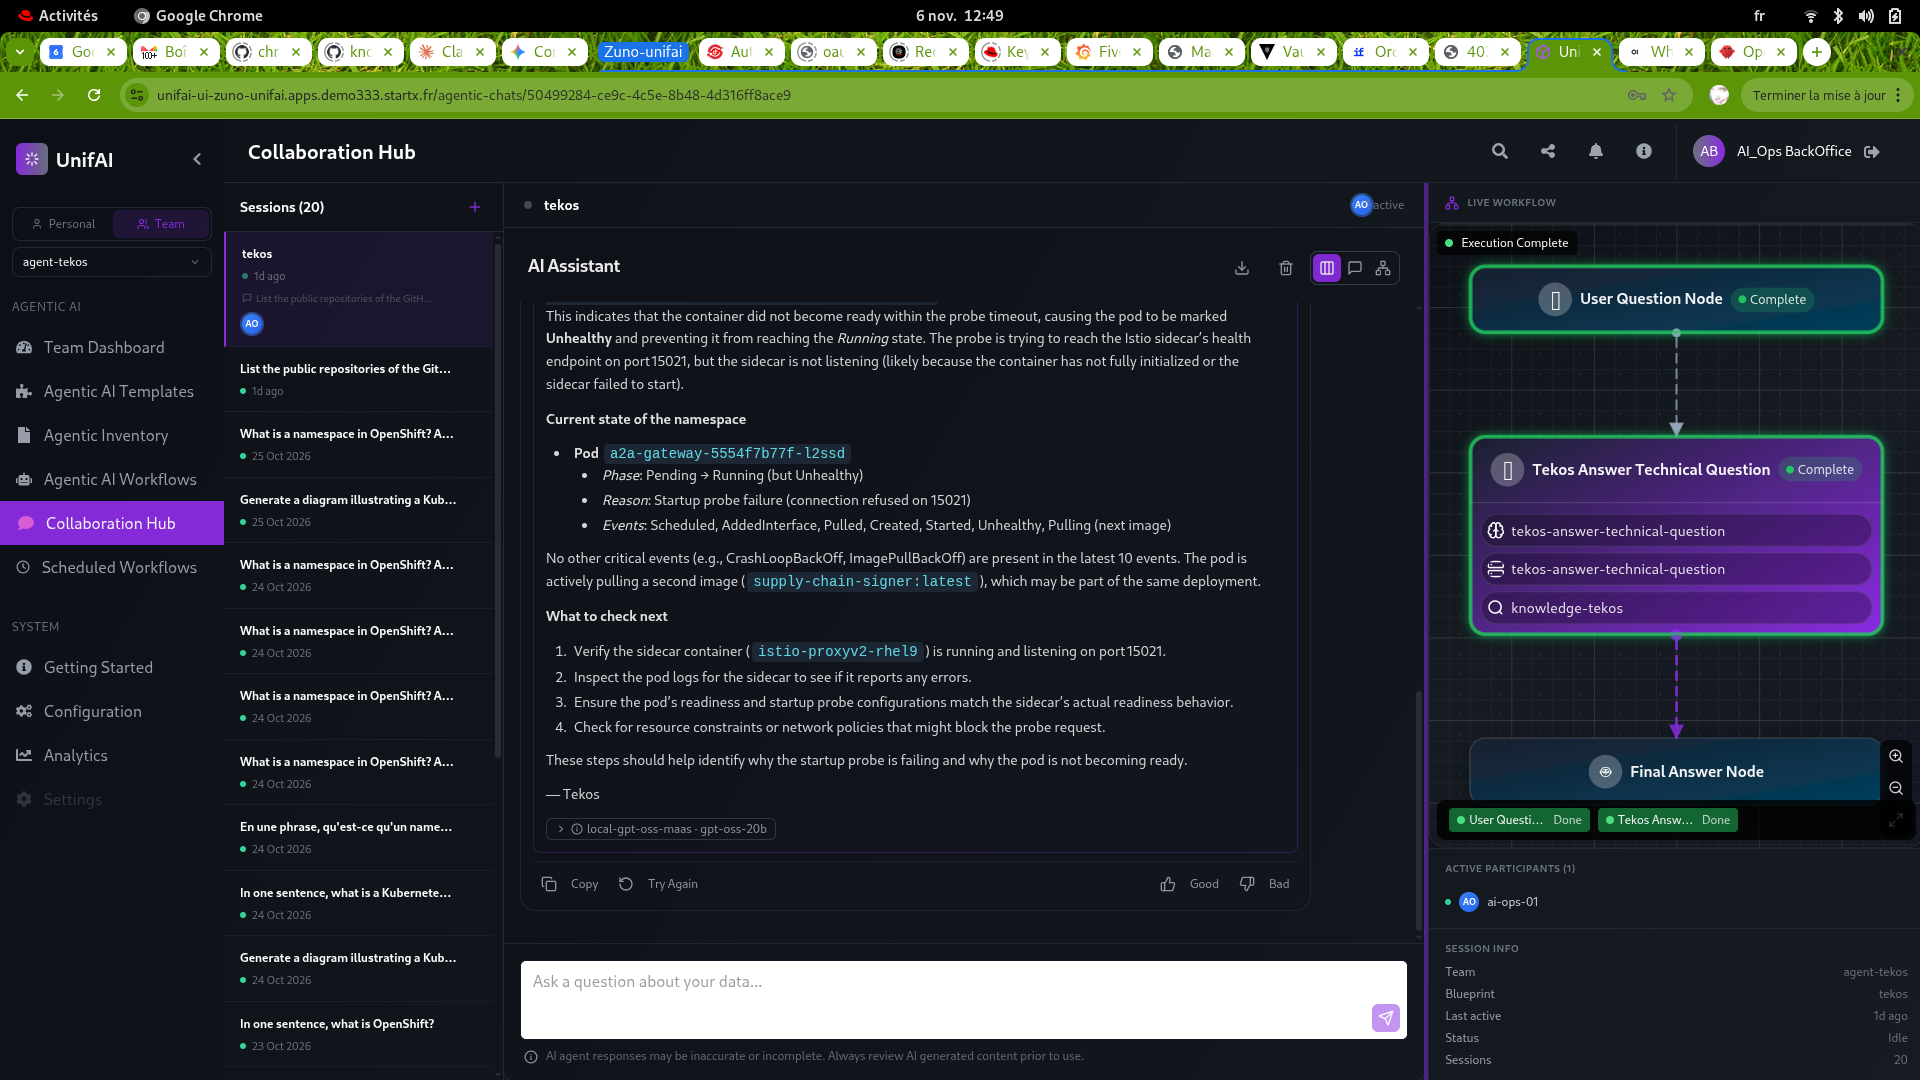
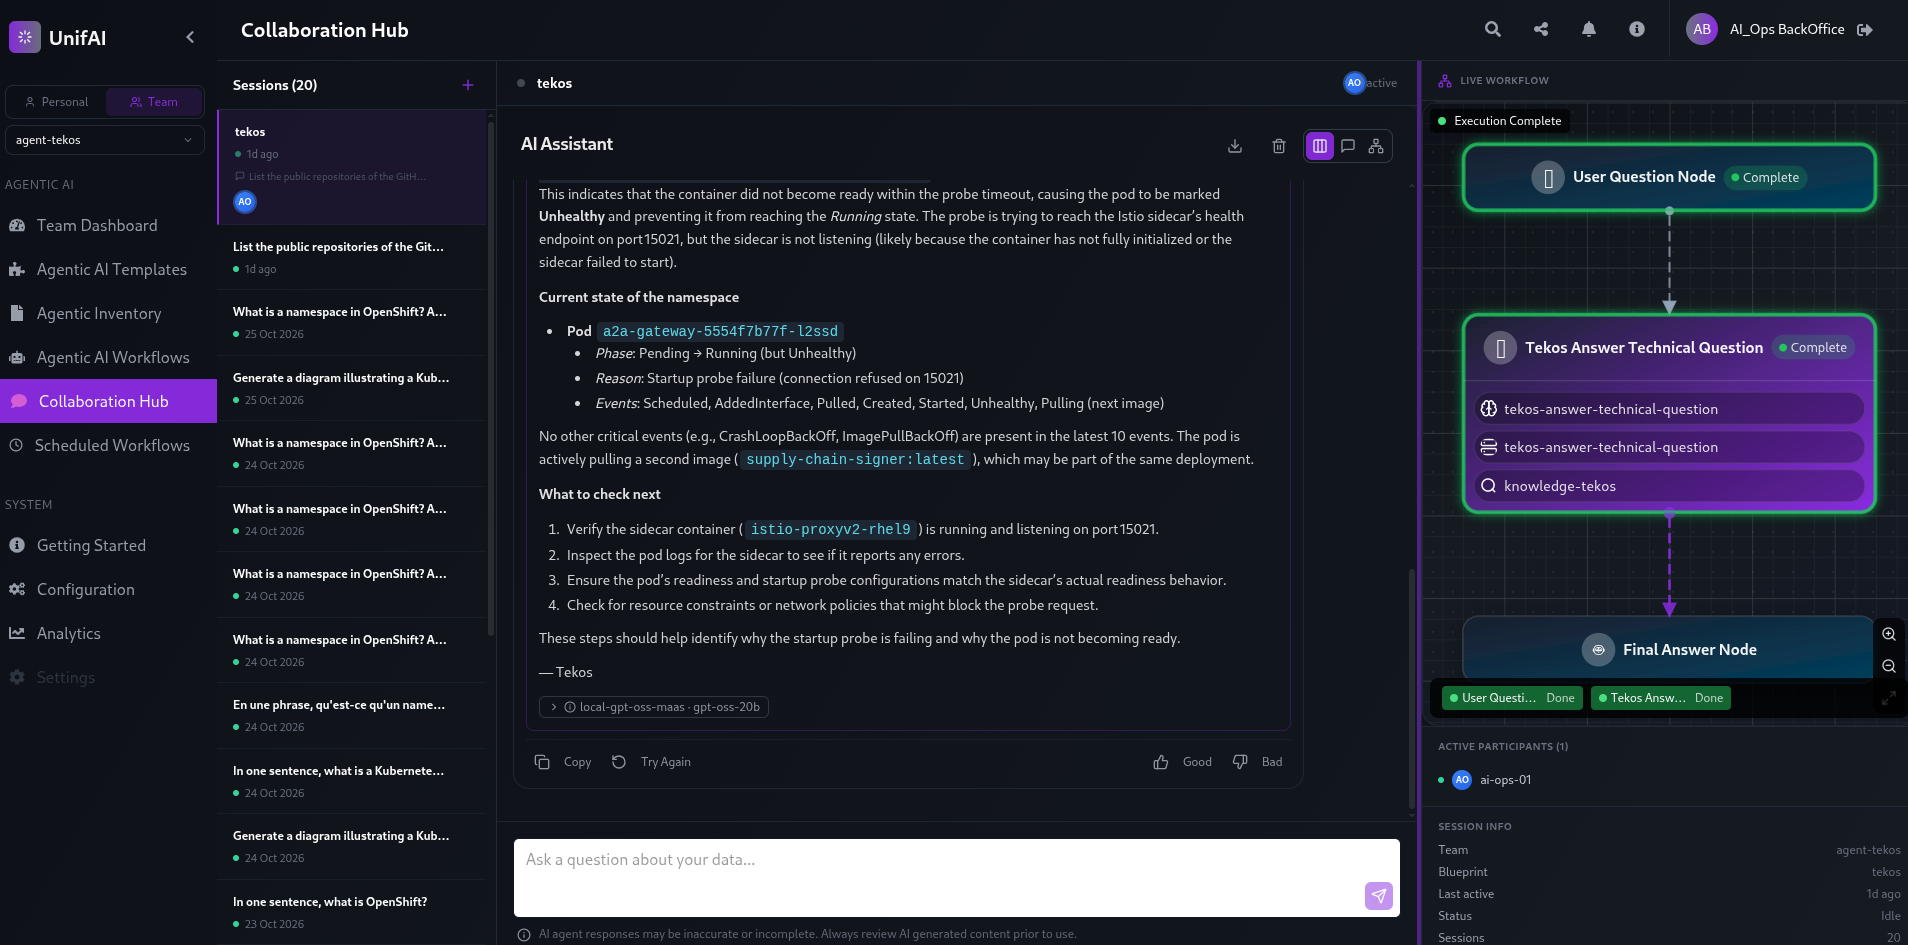
docs(wp-208): cropped screenshots of the Tekos k8s.* test, linked from the demo script and WP-208

diff --git a/docs/demo/five-experiences.md b/docs/demo/five-experiences.md
@@ -81,6 +81,10 @@ flowchart LR
    the current state of the namespace and give me what you find."* As **ai-ops-01** Tekos calls `k8s.events.read` and
    answers from real pods and events. As **consultant-02** the same question gets a generic answer and no `k8s.*` call:
    the tools are offered to `ocp-ai-ops` only (agents release 0.14.0, Tekos 0.5.0). Arkos has none.
+
+   ![ai-ops-01 asks Tekos about a pod in zuno-ai-run](../assets/img/unifai-tekos-k8s-ai-ops-01-question.png)
+   ![Tekos answers from the real events of the namespace](../assets/img/unifai-tekos-k8s-ai-ops-01-answer.png)
+   ![consultant-02 gets a generic answer and no cluster read](../assets/img/unifai-tekos-k8s-consultant-02-generic-answer.png)
 9. **The limit, said out loud.** Dify and kagent count per **persona**: every Dify user is consultant-02 in the
    quota, the telemetry and the audit, every kagent user is ai-ops-01. The front doors (oauth2-proxy) log who signed in;
    the platform cannot tell two Dify users apart (ADR-0601 decision 5).

diff --git a/docs/roadmap/work-packages/wp-208-five-experiences-demonstration.md b/docs/roadmap/work-packages/wp-208-five-experiences-demonstration.md
@@ -62,3 +62,7 @@ Tested in the UnifAI Team workspace `agent-tekos` (user screenshots 12:49 and 12
 **consultant-02** got a generic answer ("1 tool used" is the documentation retriever) and no `k8s.*` audit line at all:
 the tools are not offered to that persona. Not tested: Arkos (declares none), a refused `k8s.*` call (the model never
 sees the tool, so there is no deny line).
+
+Screenshots: [ai-ops-01 question](../../assets/img/unifai-tekos-k8s-ai-ops-01-question.png),
+[ai-ops-01 answer](../../assets/img/unifai-tekos-k8s-ai-ops-01-answer.png),
+[consultant-02 generic answer](../../assets/img/unifai-tekos-k8s-consultant-02-generic-answer.png).
